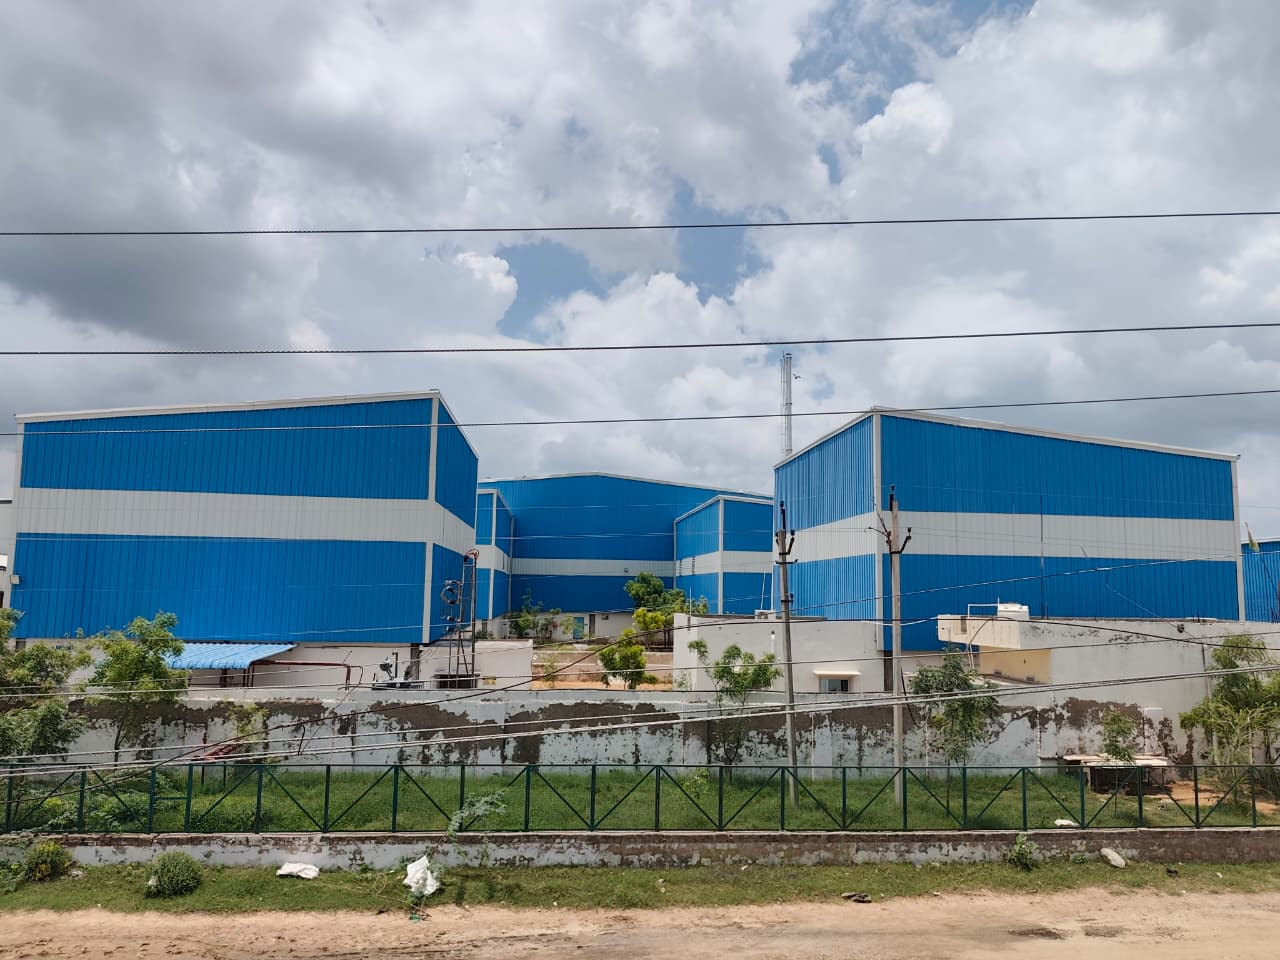
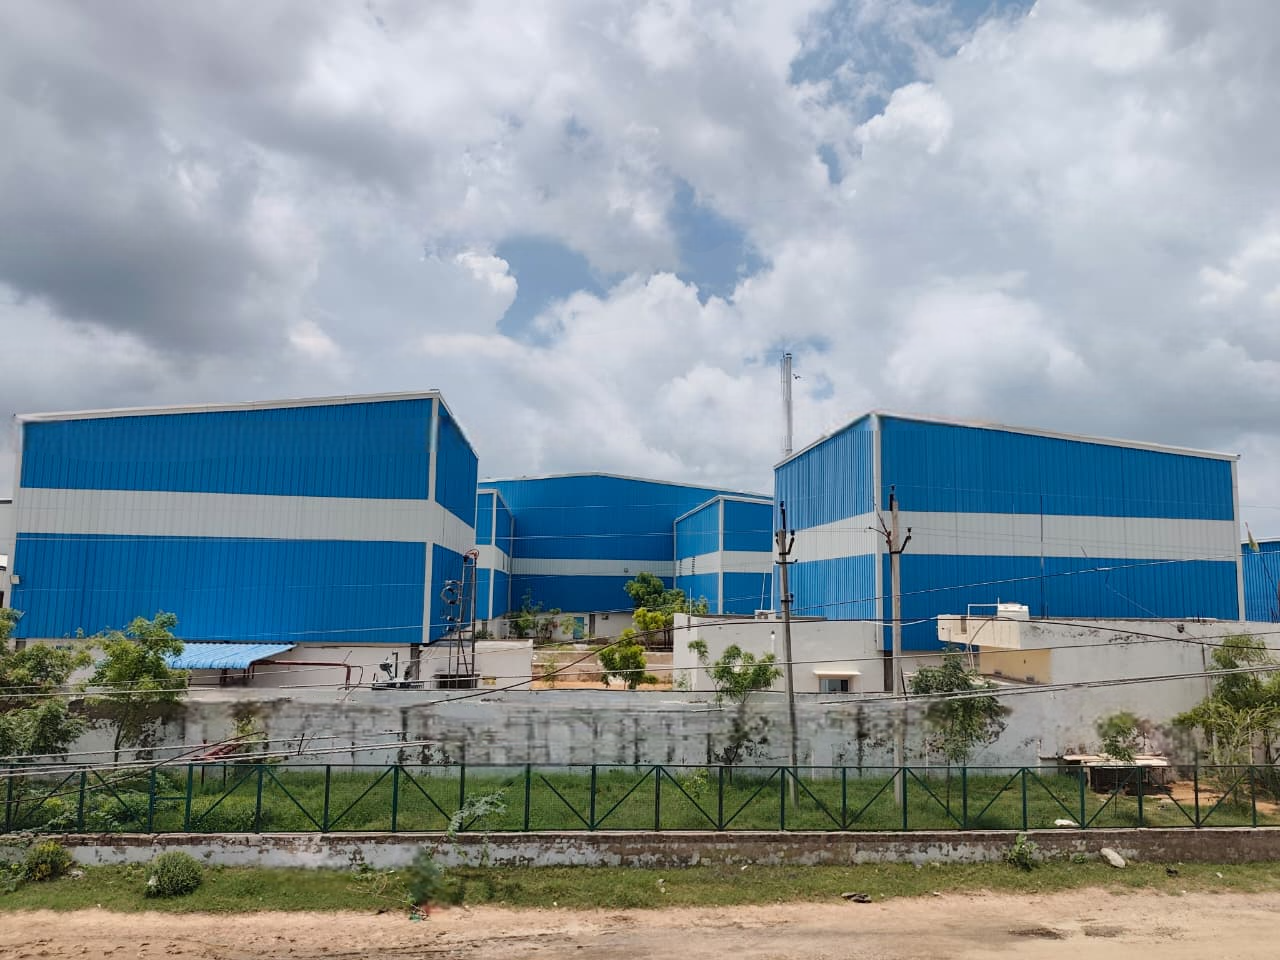
update message

diff --git a/index.html b/index.html
@@ -561,9 +561,9 @@
 <section class="hero">
   <div class="hero-noise"></div>
   <div class="hero-content">
-    <span class="eyebrow">Trusted Since Years · Bhiwadi, Rajasthan</span>
+    <span class="eyebrow">SINCE 2003 - ADVANCING ENVIRONMENTAL STEWARDSHIP</span>
     <h1>Less friction.<br>More <em>power.</em></h1>
-    <p>SSOL lubricants are built for machines that don't stop — engineered to survive extreme heat, brutal loads, and everyday grind, so your engines run stronger, longer.</p>
+    <p>Engineering sustainable waste solutions for modern industry. From hazardous waste management to used oil recycling, SSOL helps businesses operate responsibly without compromising performance.</p>
     <div class="hero-buttons">
       <a href="#products" class="btn-primary">Explore Products</a>
       <a href="#contact" class="btn-outline-light">Talk to Us</a>
